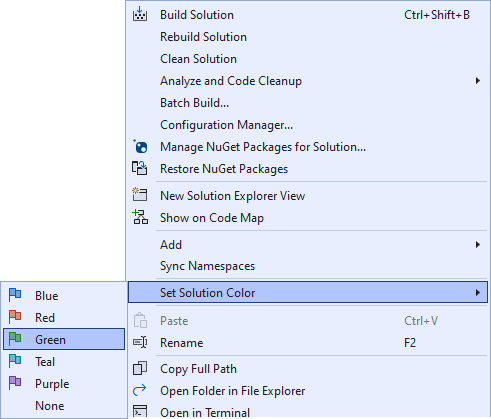
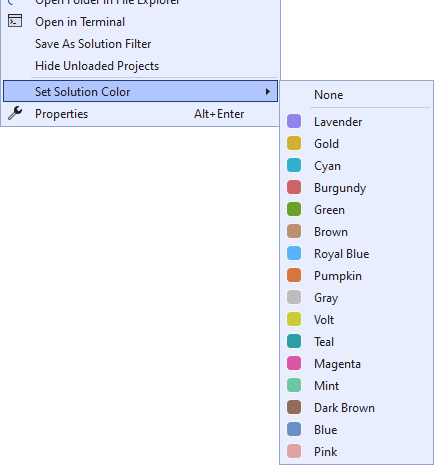
Added all tab colors [release]

diff --git a/src/Commands/SetColorCommand.cs b/src/Commands/SetColorCommand.cs
@@ -1,14 +1,24 @@
 using EnvDTE;
 using EnvDTE80;
-using EnvDTE90;
 
 namespace SolutionColors
 {
-    [Command(PackageIds.Blue)] internal sealed class Blue : ColorBaseCommand<Blue> { }
-    [Command(PackageIds.Red)] internal sealed class Red : ColorBaseCommand<Red> { }
+    [Command(PackageIds.Lavender)] internal sealed class Lavender : ColorBaseCommand<Lavender> { }
+    [Command(PackageIds.Gold)] internal sealed class Gold : ColorBaseCommand<Gold> { }
+    [Command(PackageIds.Cyan)] internal sealed class Cyan : ColorBaseCommand<Cyan> { }
+    [Command(PackageIds.Burgundy)] internal sealed class Burgundy : ColorBaseCommand<Burgundy> { }
     [Command(PackageIds.Green)] internal sealed class Green : ColorBaseCommand<Green> { }
+    [Command(PackageIds.Brown)] internal sealed class Brown : ColorBaseCommand<Brown> { }
+    [Command(PackageIds.RoyalBlue)] internal sealed class RoyalBlue : ColorBaseCommand<RoyalBlue> { }
+    [Command(PackageIds.Pumpkin)] internal sealed class Pumpkin : ColorBaseCommand<Pumpkin> { }
+    [Command(PackageIds.Gray)] internal sealed class Gray : ColorBaseCommand<Gray> { }
+    [Command(PackageIds.Volt)] internal sealed class Volt : ColorBaseCommand<Volt> { }
     [Command(PackageIds.Teal)] internal sealed class Teal : ColorBaseCommand<Teal> { }
-    [Command(PackageIds.Purple)] internal sealed class Purple : ColorBaseCommand<Purple> { }
+    [Command(PackageIds.Magenta)] internal sealed class Magenta : ColorBaseCommand<Magenta> { }
+    [Command(PackageIds.Mint)] internal sealed class Mint : ColorBaseCommand<Mint> { }
+    [Command(PackageIds.DarkBrown)] internal sealed class DarkBrown : ColorBaseCommand<DarkBrown> { }
+    [Command(PackageIds.Blue)] internal sealed class Blue : ColorBaseCommand<Blue> { }
+    [Command(PackageIds.Pink)] internal sealed class Pink : ColorBaseCommand<Pink> { }
     [Command(PackageIds.None)] internal sealed class None : ColorBaseCommand<None> { }
 
     internal abstract class ColorBaseCommand<T> : BaseCommand<T> where T : class, new()
@@ -24,7 +34,7 @@ namespace SolutionColors
         {
             if (_color == "None")
             {
-                await ColorHelper.RemoveBorderAsync();                
+                await ColorHelper.RemoveBorderAsync();
 
                 await ThreadHelper.JoinableTaskFactory.SwitchToMainThreadAsync();
                 DTE2 dte = await VS.GetServiceAsync<DTE, DTE2>();

diff --git a/src/VSCommandTable.cs b/src/VSCommandTable.cs
@@ -14,6 +14,9 @@ namespace SolutionColors
     {
         public const string SolutionColorsString = "3a113b17-c53c-45f0-baab-571abef8b325";
         public static Guid SolutionColors = new Guid(SolutionColorsString);
+
+        public const string TabColorsString = "a1fa08e5-519b-4810-bdb0-89f586af37e9";
+        public static Guid TabColors = new Guid(TabColorsString);
     }
     /// <summary>
     /// Helper class that encapsulates all CommandIDs uses across VS Package.
@@ -22,12 +25,40 @@ namespace SolutionColors
     {
         public const int OuterGroup = 0x0001;
         public const int InnerGroup = 0x0002;
+        public const int NoneGroup = 0x0003;
         public const int FlyoutMenu = 0x1000;
-        public const int Blue = 0x0100;
-        public const int Red = 0x0110;
-        public const int Green = 0x0120;
-        public const int Teal = 0x0130;
-        public const int Purple = 0x0140;
-        public const int None = 0x0222;
+        public const int Lavender = 0x0100;
+        public const int Gold = 0x0101;
+        public const int Cyan = 0x0102;
+        public const int Burgundy = 0x0103;
+        public const int Green = 0x0104;
+        public const int Brown = 0x0105;
+        public const int RoyalBlue = 0x0106;
+        public const int Pumpkin = 0x0107;
+        public const int Gray = 0x0108;
+        public const int Volt = 0x0109;
+        public const int Teal = 0x0110;
+        public const int Magenta = 0x0111;
+        public const int Mint = 0x0112;
+        public const int DarkBrown = 0x0113;
+        public const int Blue = 0x0114;
+        public const int Pink = 0x0115;
+        public const int None = 0x0200;
+        public const int cLavender = 0x0001;
+        public const int cGold = 0x0002;
+        public const int cCyan = 0x0003;
+        public const int cBurgundy = 0x0004;
+        public const int cGreen = 0x0005;
+        public const int cBrown = 0x0006;
+        public const int cRoyalBlue = 0x0007;
+        public const int cPumpkin = 0x0008;
+        public const int cGray = 0x0009;
+        public const int cVolt = 0x000A;
+        public const int cTeal = 0x000B;
+        public const int cMagenta = 0x000C;
+        public const int cMint = 0x000D;
+        public const int cDarkBrown = 0x000E;
+        public const int cBlue = 0x000F;
+        public const int cPink = 0x0010;
     }
 }

diff --git a/src/ColorHelper.cs b/src/ColorHelper.cs
@@ -15,18 +15,18 @@ namespace SolutionColors
 
         private static readonly Dictionary<string, string> _colorMap = new()
         {
-            { "Blue", "CornflowerBlue" },
-            { "Red", "OrangeRed" },
-            { "Green", "OliveDrab" },
-            { "Teal", "Teal" },
-            { "Purple", "Purple" },
+            { "Burgundy", "Tomato" },
+            { "Pumpkin", "OrangeRed" },
+            { "Volt", "YellowGreen" },
+            { "Mint", "MediumAquamarine" },
+            { "DarkBrown", "SaddleBrown" },
         };
 
         public static async Task SetColorAsync(string colorName)
         {
             if (!_colorMap.TryGetValue(colorName, out string trueColor))
             {
-                return;
+                trueColor = colorName;
             }
 
             await ThreadHelper.JoinableTaskFactory.SwitchToMainThreadAsync();

diff --git a/README.md b/README.md
@@ -17,7 +17,7 @@ Allows you associate a color with a solution that is displayed as a line above t
 
 You can pick a color from the context menu of the solution node in Solution Explorer:
 
-![Options](art/context-menu.png)
+![Context Menu](art/context-menu.png)
 
 Set the width of the line in the options dialog.
 
